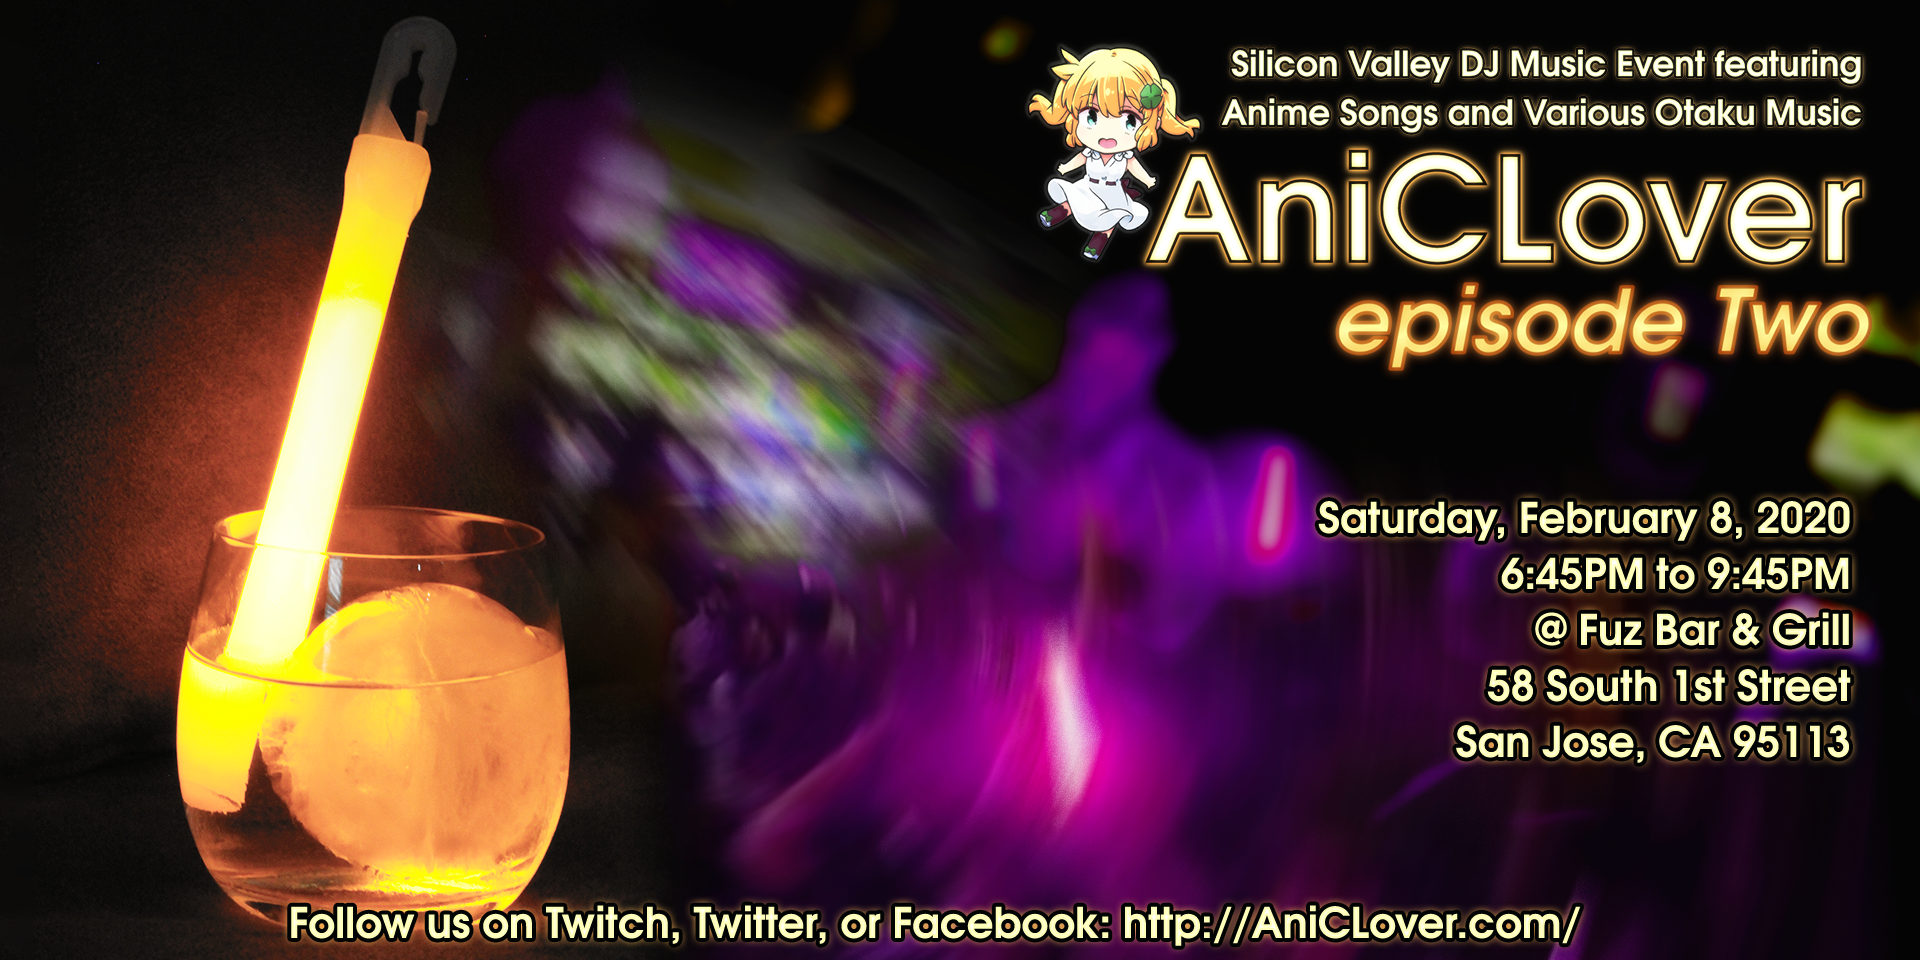
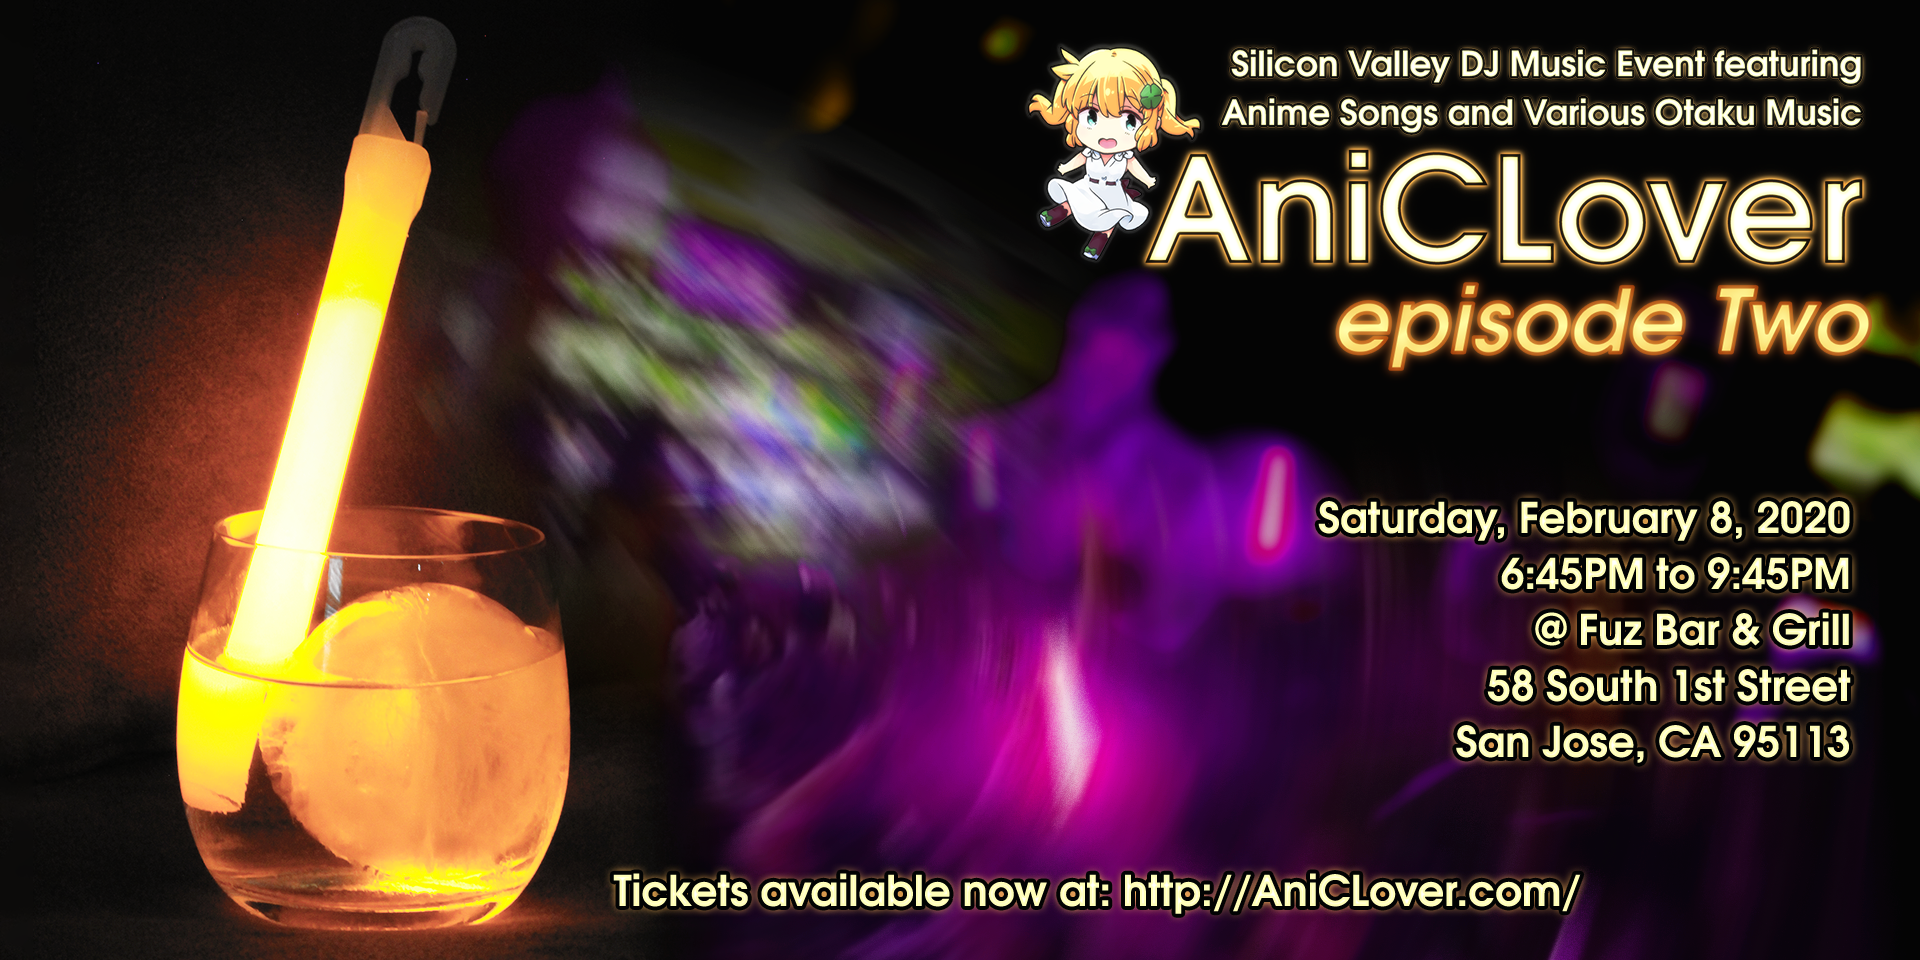
Update preview

Changed region(s): [[0.125, 0.9062, 0.8438, 1.0]]

diff --git a/index.html b/index.html
@@ -5,14 +5,14 @@
     <title>AniCLover</title>
     <meta property="og:url" content ="https://aniclover.com"/>
     <meta property="og:title" content="AniCLover"/>
-    <meta property="og:description" content="Anisong DJ Event - November 8 - San Jose, CA"/>
-    <meta property="og:image" content="https://aniclover.com/assets/anicloverbanner1500x500.png" />
+    <meta property="og:description" content="Anisong DJ Event - February 8 - San Jose, CA"/>
+    <meta property="og:image" content="https://aniclover.com/assets/aniclover_ep2_2_1.png" />
 
     <meta name="twitter:card" content="summary_large_image"/>
     <meta name="twitter:site" content="@aniclover"/>
     <meta name="twitter:title" content="AniCLover"/>
     <meta name="twitter:description" content="Anisong DJ Event - San Jose, CA"/>
-    <meta name="twitter:image" content="https://aniclover.com/assets/anicloverbanner1500x500.png"/>
+    <meta name="twitter:image" content="https://aniclover.com/assets/aniclover_ep2_2_1.png"/>
 
     <meta name="keywords" content="anime aniclover dj vocaloid anisong event ticket tickets event registration"/>
 
@@ -158,12 +158,12 @@ twq('track','PageView');
                                 <BR>Brown Paper Tickets Ticket Widget Loading...
                                 <BR>
                                 <BR>
-                                <A HREF="https://www.brownpapertickets.com/event/4365936">Click Here</A> to visit the Brown Paper Tickets event page.</CENTER>
+                                <A HREF="https://www.brownpapertickets.com/event/4476514">Click Here</A> to visit the Brown Paper Tickets event page.</CENTER>
                             <BR>
                             <BR>
                         </DIV>
-                        <script src="https://www.brownpapertickets.com/eventwidget.js?event=4365936" type="text/javascript" language="javascript"></script>
-                        <script src="https://www.brownpapertickets.com/widget_v651.js?event=4365936" type="text/javascript" language="javascript"></script>
+                        <script src="https://www.brownpapertickets.com/eventwidget.js?event=4476514" type="text/javascript" language="javascript"></script>
+                        <script src="https://www.brownpapertickets.com/widget_v651.js?event=4476514" type="text/javascript" language="javascript"></script>
                     </div>
                 </div>
             </div>
